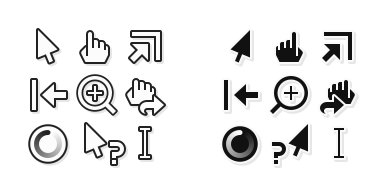
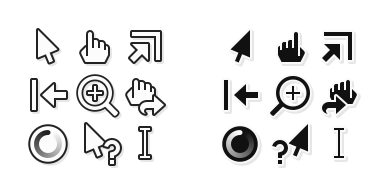
Add CHANGELOG and update preview

diff --git a/CHANGELOG.md b/CHANGELOG.md
@@ -1,0 +1,12 @@
+1.1 (2022-02-02)
+----------------
+
+- Make question mark more circular
+- Increase size of magnifying glass handle
+- Reposition left-handed DnD symbols
+- Revise details of pencil and color-picker
+
+1.0 (2021-05-21)
+----------------
+
+- Initial release
